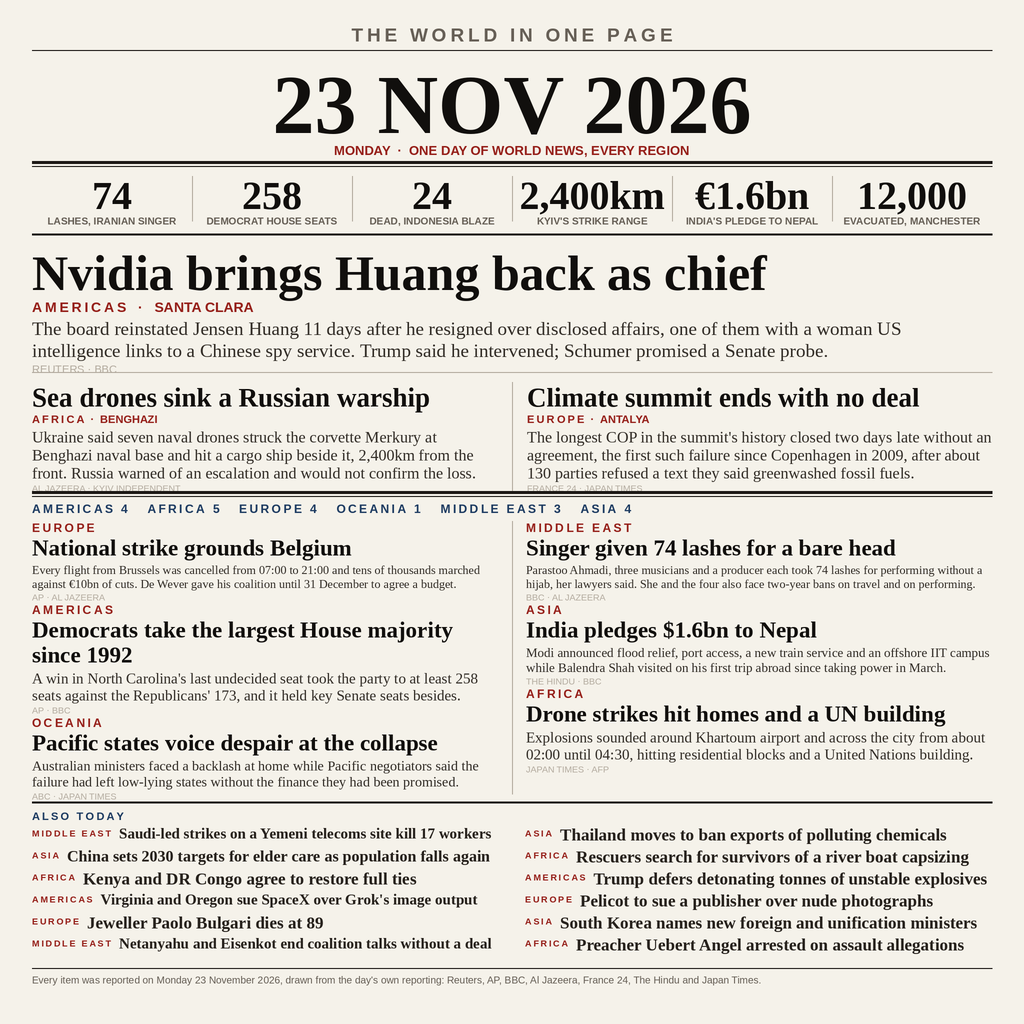
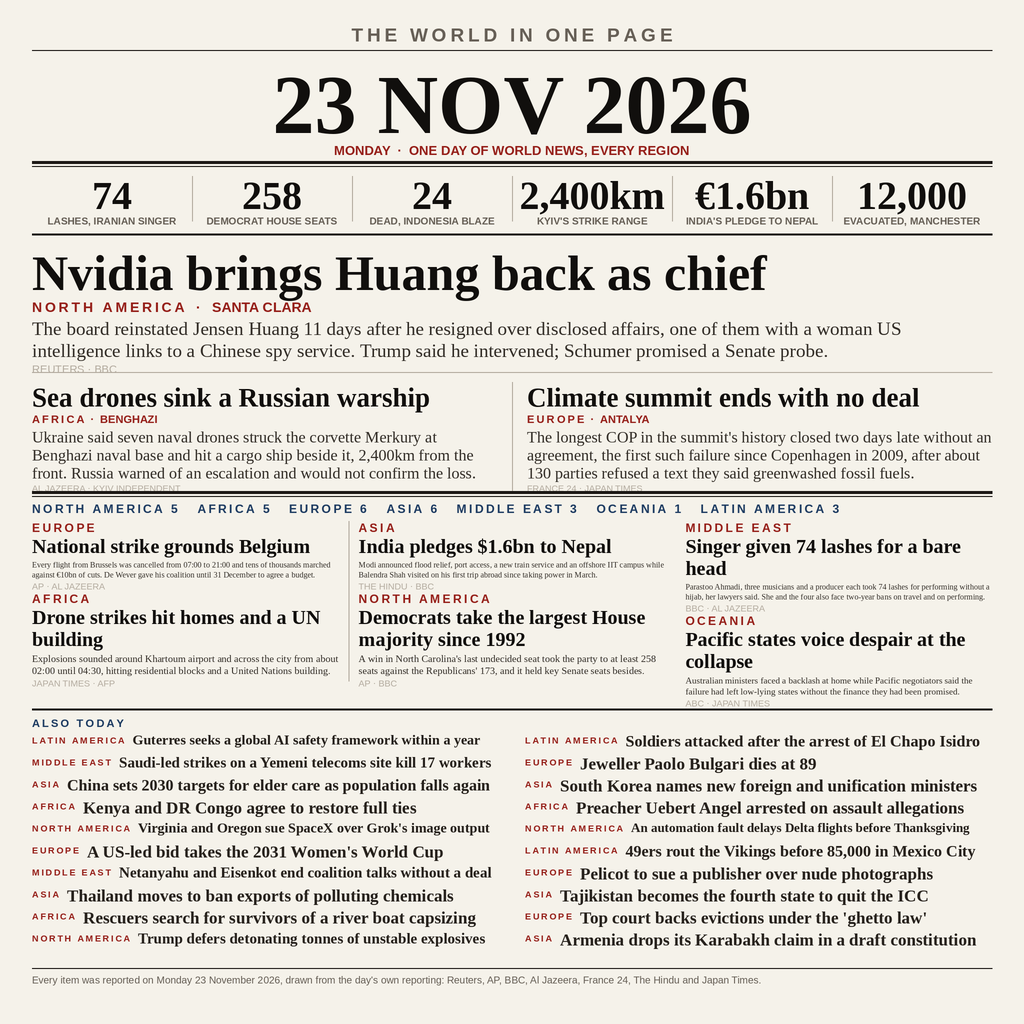
Three columns, every region placed, seven rows of briefs

Changed region(s): [[0.0312, 0.4688, 0.9688, 0.9375], [0.0312, 0.2812, 0.3125, 0.3125]]

diff --git a/render.py b/render.py
@@ -220,13 +220,14 @@ class Page:
     def grid(self, floor):
         """Two columns of cards, then a two-column brief strip, inside floor."""
         d, x0, cw = self.d, self.x0, self.cw
-        gut = 28 * S
-        colw = (cw - gut) / 2
+        NC = 3
+        gut = 20 * S
+        colw = (cw - gut * (NC - 1)) / NC
 
         # Reserve the brief strip out of the page before the cards are placed.
         # Without this the cards expand to the floor and the strip is left with
         # a heading and nothing under it.
-        wanted = 3 * S                      # rows of briefs
+        wanted = 7 * S                      # rows of briefs
         brief_h = 15 * S + wanted * 22 * S + 6 * S
         card_floor = floor - brief_h
 
@@ -236,44 +237,65 @@ class Page:
         # Place each card in whichever column is currently shorter. Roundrobin
         # puts the rare areas first, and a greedy balance keeps them near the
         # top of the page instead of burying them past the floor in one column.
-        cols = [[], []]
-        coly = [self.y, self.y]
-        for s in cards:
-            hf, hls, hpx = fit(d, s["head"], SB, 23 * S, colw, 3, minpx=16)
-            bf, bls, bpx = fit(d, s["body"], SR, 15 * S, colw, 2, minpx=11)
+        cols = [[] for _ in range(NC)]
+        coly = [self.y] * NC
+
+        # Breadth is a scored criterion, and an area with a single story is the
+        # one a greedy packer drops last. Place one card for every area first,
+        # so no region on the page can go missing because its story was long.
+        deck = list(cards)
+        for a in R.AREAS:
+            mine = [c for c in deck if c["area"] == a]
+            if not mine:
+                continue
+            s = mine[0]
+            hf, hls, hpx = fit(d, s["head"], SB, 20 * S, colw, 3, minpx=15)
+            bf, bls, bpx = fit(d, s["body"], SR, 13 * S, colw, 2, minpx=11)
             est = (14 * S + len(hls) * (hpx + 2 * S) + 3 * S
                    + len(bls) * (bpx + 2 * S) + 12 * S)
-            ci = 0 if coly[0] <= coly[1] else 1
+            ci = min(range(NC), key=lambda k: coly[k])
+            cols[ci].append(s)
+            coly[ci] += est
+            deck.remove(s)
+        cards = deck
+
+        for s in cards:
+            hf, hls, hpx = fit(d, s["head"], SB, 20 * S, colw, 3, minpx=15)
+            bf, bls, bpx = fit(d, s["body"], SR, 13 * S, colw, 2, minpx=11)
+            est = (14 * S + len(hls) * (hpx + 2 * S) + 3 * S
+                   + len(bls) * (bpx + 2 * S) + 12 * S)
+            ci = min(range(NC), key=lambda k: coly[k])
             if coly[ci] + est > card_floor:
-                other = 1 - ci
-                if coly[other] + est > card_floor:
+                order = sorted(range(NC), key=lambda k: coly[k])
+                fit_col = next((k for k in order if coly[k] + est <= card_floor), None)
+                if fit_col is None:
                     continue
-                ci = other
+                ci = fit_col
             cols[ci].append(s)
             coly[ci] += est
 
-        coly = [self.y, self.y]
+        coly = [self.y] * NC
         for ci, col in enumerate(cols):
             cx = x0 + (colw + gut) * ci
             for s in col:
                 yy = coly[ci]
-                hf, hls, hpx = fit(d, s["head"], SB, 23 * S, colw, 3, minpx=16)
+                hf, hls, hpx = fit(d, s["head"], SB, 20 * S, colw, 3, minpx=15)
                 self.text((cx, yy), sp(s["area"]), F(NB, 12 * S), RED)
                 yy += 14 * S
                 for ln in hls:
                     self.text((cx, yy), ln, hf, INK)
                     yy += hpx + 2 * S
                 yy += 3 * S
-                bf, bls, bpx = fit(d, s["body"], SR, 15 * S, colw, 2, minpx=11)
+                bf, bls, bpx = fit(d, s["body"], SR, 13 * S, colw, 2, minpx=11)
                 for ln in bls:
                     self.text((cx, yy), ln, bf, BODYC)
                     yy += bpx + 2 * S
                 self.text((cx, yy + 1 * S), s["src"], F(NR, 9 * S), LIGHT)
                 coly[ci] = yy + 12 * S
                 self.drawn.append(s)
-            if ci == 0 and self.paint:
+            if self.paint and ci < NC - 1:
                 d.line([(x0 + colw + gut / 2, self.y),
-                        (x0 + colw + gut / 2, max(coly[0], coly[1]) - 8 * S)],
+                        (x0 + colw + gut / 2, max(coly) - 8 * S)],
                        fill=LIGHT, width=1 * S)
         self.y = max(coly)
         self.line(self.y, 2)

diff --git a/record.py b/record.py
@@ -35,11 +35,12 @@ FIGURES = [
     ("12,000", "EVACUATED, MANCHESTER"),
 ]
 
-AREAS = ["EUROPE", "ASIA", "MIDDLE EAST", "AFRICA", "AMERICAS", "OCEANIA"]
+AREAS = ["EUROPE", "ASIA", "MIDDLE EAST", "AFRICA", "NORTH AMERICA",
+         "LATIN AMERICA", "OCEANIA"]
 
 STORIES = [
     # ---------- the three that moved the day furthest ----------
-    dict(area="AMERICAS", slug="NVIDIA", place="SANTA CLARA", topic="Business",
+    dict(area="NORTH AMERICA", slug="NVIDIA", place="SANTA CLARA", topic="Business",
          art="chip", tier=1,
          head="Nvidia brings Huang back as chief",
          body="The board reinstated Jensen Huang 11 days after he resigned over "
@@ -91,7 +92,7 @@ STORIES = [
               "Washington to pay $290bn in damages.",
          src="AL JAZEERA \u00b7 REUTERS"),
 
-    dict(area="AMERICAS", slug="CONGRESS", place="WASHINGTON", topic="Politics",
+    dict(area="NORTH AMERICA", slug="CONGRESS", place="WASHINGTON", topic="Politics",
          art="gavel", tier=2,
          head="Democrats take the largest House majority since 1992",
          body="A win in North Carolina's last undecided seat took the party to "
@@ -148,7 +149,7 @@ STORIES = [
               "year. Workers marched for a fourth day.",
          src="AL JAZEERA \u00b7 THE HINDU"),
 
-    dict(area="AMERICAS", slug="BASEBALL", place="NEW YORK", topic="Sport",
+    dict(area="NORTH AMERICA", slug="BASEBALL", place="NEW YORK", topic="Sport",
          art="coin", tier=2,
          head="Mets give Skubal a record $450m",
          body="The nine-year deal carries a $50m average, the richest ever for "
@@ -217,31 +218,31 @@ STORIES = [
          art="none", tier=3,
          head="Preacher Uebert Angel arrested on assault allegations",
          body="", src="BBC"),
-    dict(area="AMERICAS", slug="TEXAS", place="WASHINGTON", topic="Law",
+    dict(area="NORTH AMERICA", slug="TEXAS", place="WASHINGTON", topic="Law",
          art="none", tier=3,
          head="Virginia and Oregon sue SpaceX over Grok's image output",
          body="", src="AL JAZEERA"),
-    dict(area="AMERICAS", slug="IOWA", place="DES MOINES", topic="Safety",
+    dict(area="NORTH AMERICA", slug="IOWA", place="DES MOINES", topic="Safety",
          art="none", tier=3,
          head="Trump defers detonating tonnes of unstable explosives",
          body="", src="BBC"),
-    dict(area="AMERICAS", slug="DELTA", place="ATLANTA", topic="Travel",
+    dict(area="NORTH AMERICA", slug="DELTA", place="ATLANTA", topic="Travel",
          art="none", tier=3,
          head="An automation fault delays Delta flights before Thanksgiving",
          body="", src="AP"),
-    dict(area="AMERICAS", slug="UNITED NATIONS", place="BRIDGETOWN", topic="Tech",
+    dict(area="LATIN AMERICA", slug="UNITED NATIONS", place="BRIDGETOWN", topic="Tech",
          art="none", tier=3,
          head="Guterres seeks a global AI safety framework within a year",
          body="", src="AL JAZEERA"),
-    dict(area="AMERICAS", slug="MEXICO", place="CULIACAN", topic="Security",
+    dict(area="LATIN AMERICA", slug="MEXICO", place="CULIACAN", topic="Security",
          art="none", tier=3,
          head="Soldiers attacked after the arrest of El Chapo Isidro",
          body="", src="BBC"),
-    dict(area="AMERICAS", slug="NFL", place="MEXICO CITY", topic="Sport",
+    dict(area="LATIN AMERICA", slug="NFL", place="MEXICO CITY", topic="Sport",
          art="none", tier=3,
          head="49ers rout the Vikings before 85,000 in Mexico City",
          body="", src="JAPAN TIMES"),
-    dict(area="AMERICAS", slug="FIFA", place="ZURICH", topic="Sport",
+    dict(area="EUROPE", slug="FIFA", place="ZURICH", topic="Sport",
          art="none", tier=3,
          head="A US-led bid takes the 2031 Women's World Cup",
          body="", src="AP"),
